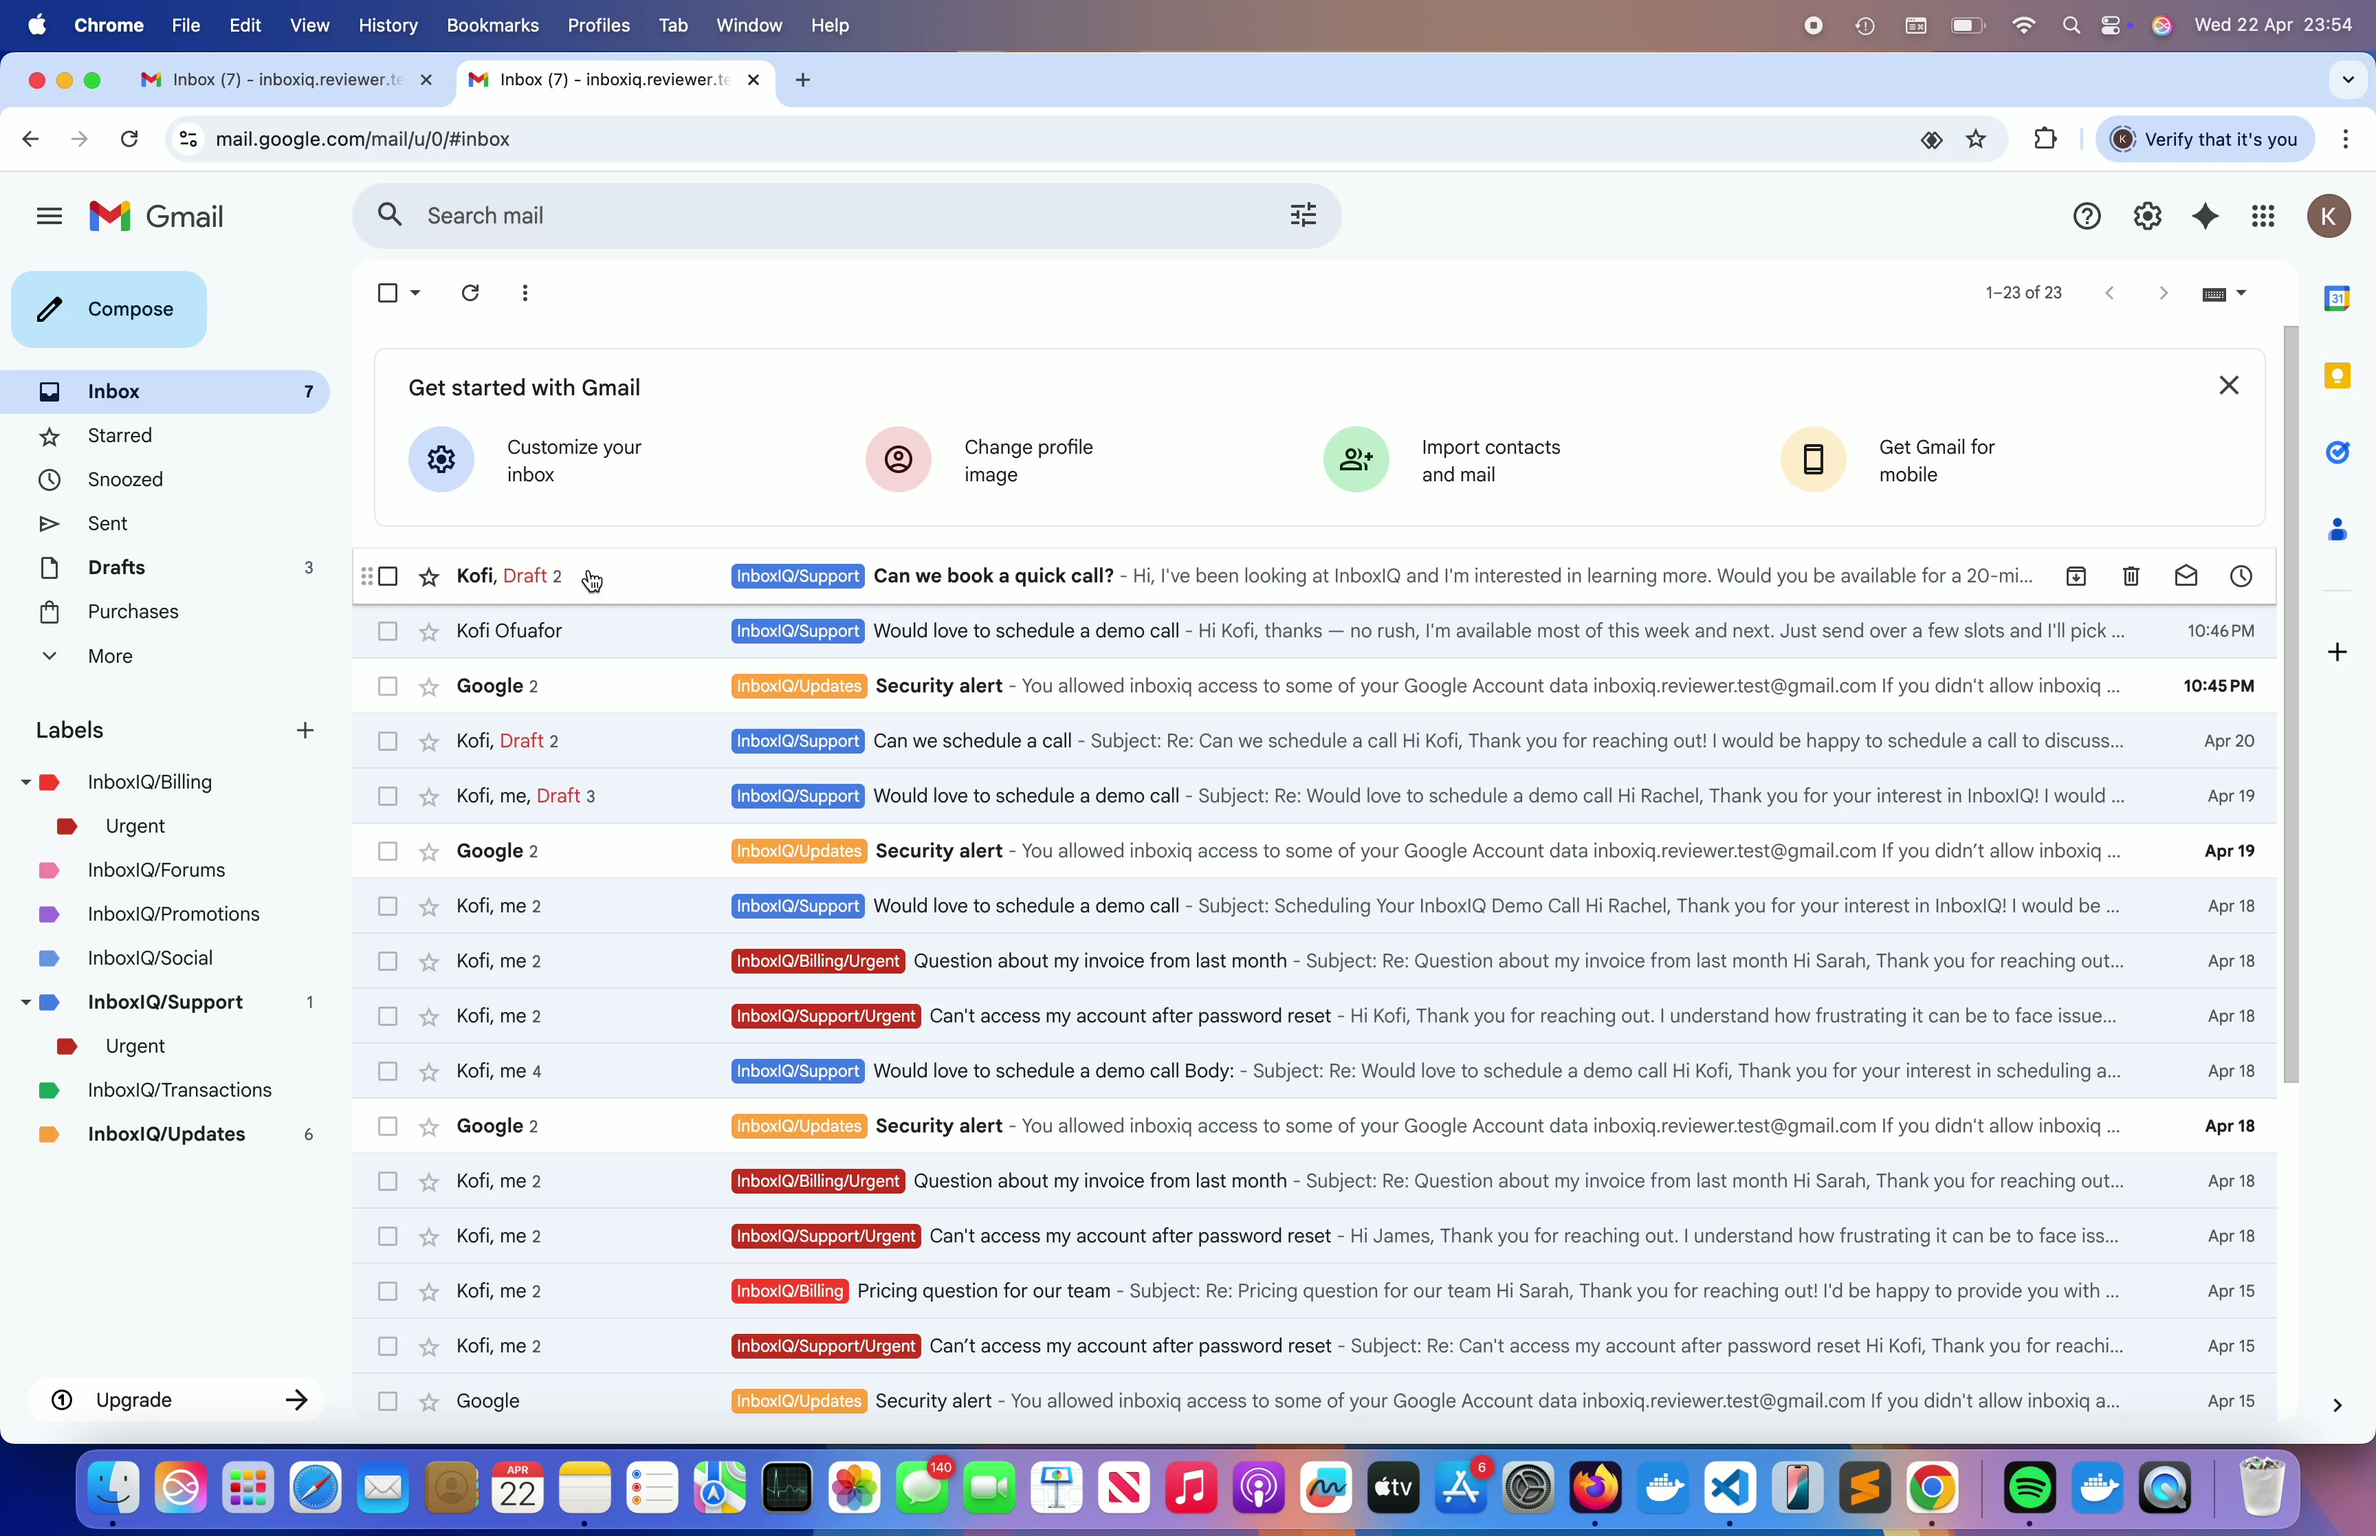
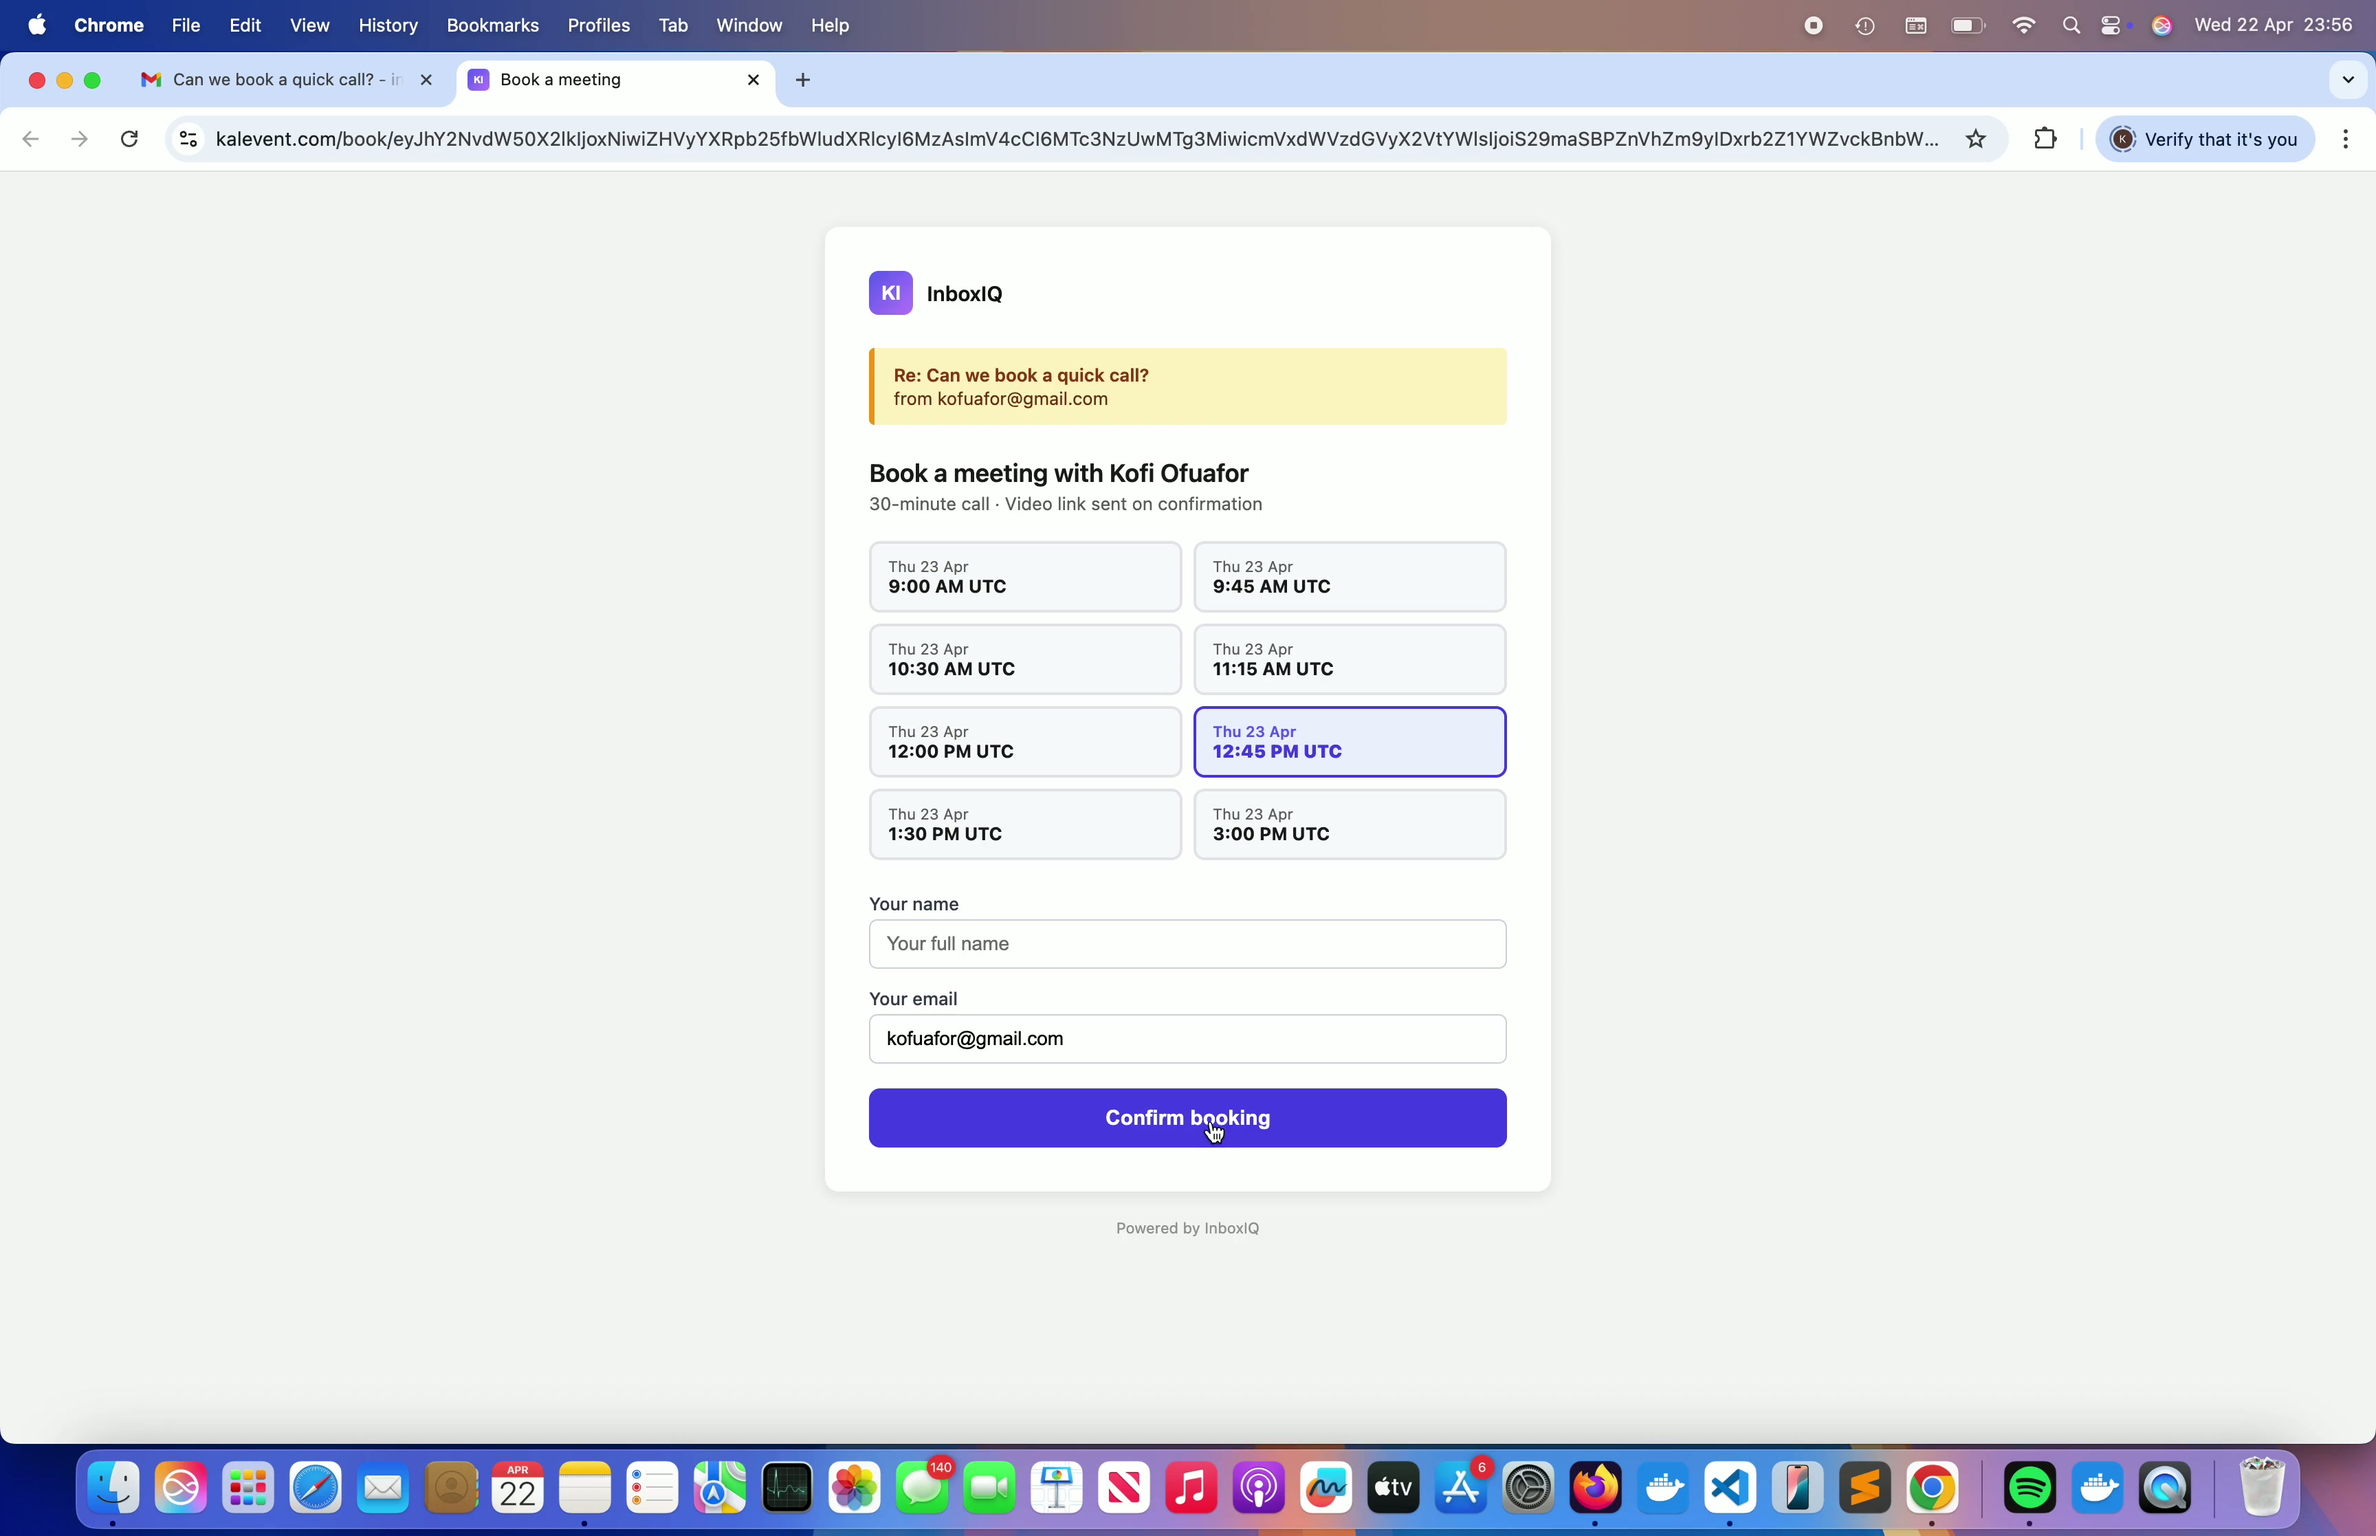
Video source (index.html:485) — switched from the broken CDN URL to the local faststart-encoded file (inboxiq-book-a-meeting-fs.mp4)

diff --git a/src/templates/index.html b/src/templates/index.html
@@ -482,7 +482,7 @@
               </div>
             </div>
             <video class="rounded-2xl border border-slate-600 shadow-sm w-full" style="aspect-ratio:16/9" controls playsinline poster="https://files.kalevent.com/demo/inboxiq-book-a-meeting-poster.jpg">
-              <source src="https://files.kalevent.com/demo/inboxiq-book-a-meeting-v2.mp4" type="video/mp4">
+              <source src="{{ url_for('static', filename='demo/inboxiq-book-a-meeting-fs.mp4') }}" type="video/mp4">
             </video>
           </div>
         </div>
@@ -1288,6 +1288,28 @@
         document.documentElement.classList.add('dark');
       }
       document.addEventListener('DOMContentLoaded', function() { updateToggleIcon(isDark); });
+    })();
+  </script>
+  <script>
+    (function () {
+      document.addEventListener('DOMContentLoaded', function () {
+        var vid = document.querySelector('video[poster*="book-a-meeting"]');
+        if (!vid) return;
+        vid.poster = "{{ url_for('static', filename='demo/inboxiq-book-a-meeting-poster.jpg') }}";
+        var wrap = document.createElement('div');
+        wrap.style.cssText = 'position:relative;display:block;width:100%';
+        vid.parentNode.insertBefore(wrap, vid);
+        wrap.appendChild(vid);
+        var btn = document.createElement('button');
+        btn.setAttribute('aria-label', 'Play video');
+        btn.innerHTML = '<svg xmlns="http://www.w3.org/2000/svg" viewBox="0 0 24 24" fill="currentColor" width="36" height="36"><path d="M8 5v14l11-7z"/></svg>';
+        btn.style.cssText = 'position:absolute;top:50%;left:50%;transform:translate(-50%,-50%);width:72px;height:72px;border-radius:50%;background:rgba(255,255,255,0.92);border:none;cursor:pointer;display:flex;align-items:center;justify-content:center;z-index:10;box-shadow:0 4px 20px rgba(0,0,0,0.35);color:#1e293b;transition:transform 0.15s';
+        wrap.appendChild(btn);
+        btn.addEventListener('click', function () { btn.style.display = 'none'; vid.play(); });
+        btn.addEventListener('mouseenter', function () { btn.style.transform = 'translate(-50%,-50%) scale(1.1)'; });
+        btn.addEventListener('mouseleave', function () { btn.style.transform = 'translate(-50%,-50%) scale(1)'; });
+        vid.addEventListener('ended', function () { btn.style.display = 'flex'; });
+      });
     })();
   </script>
 </body>
